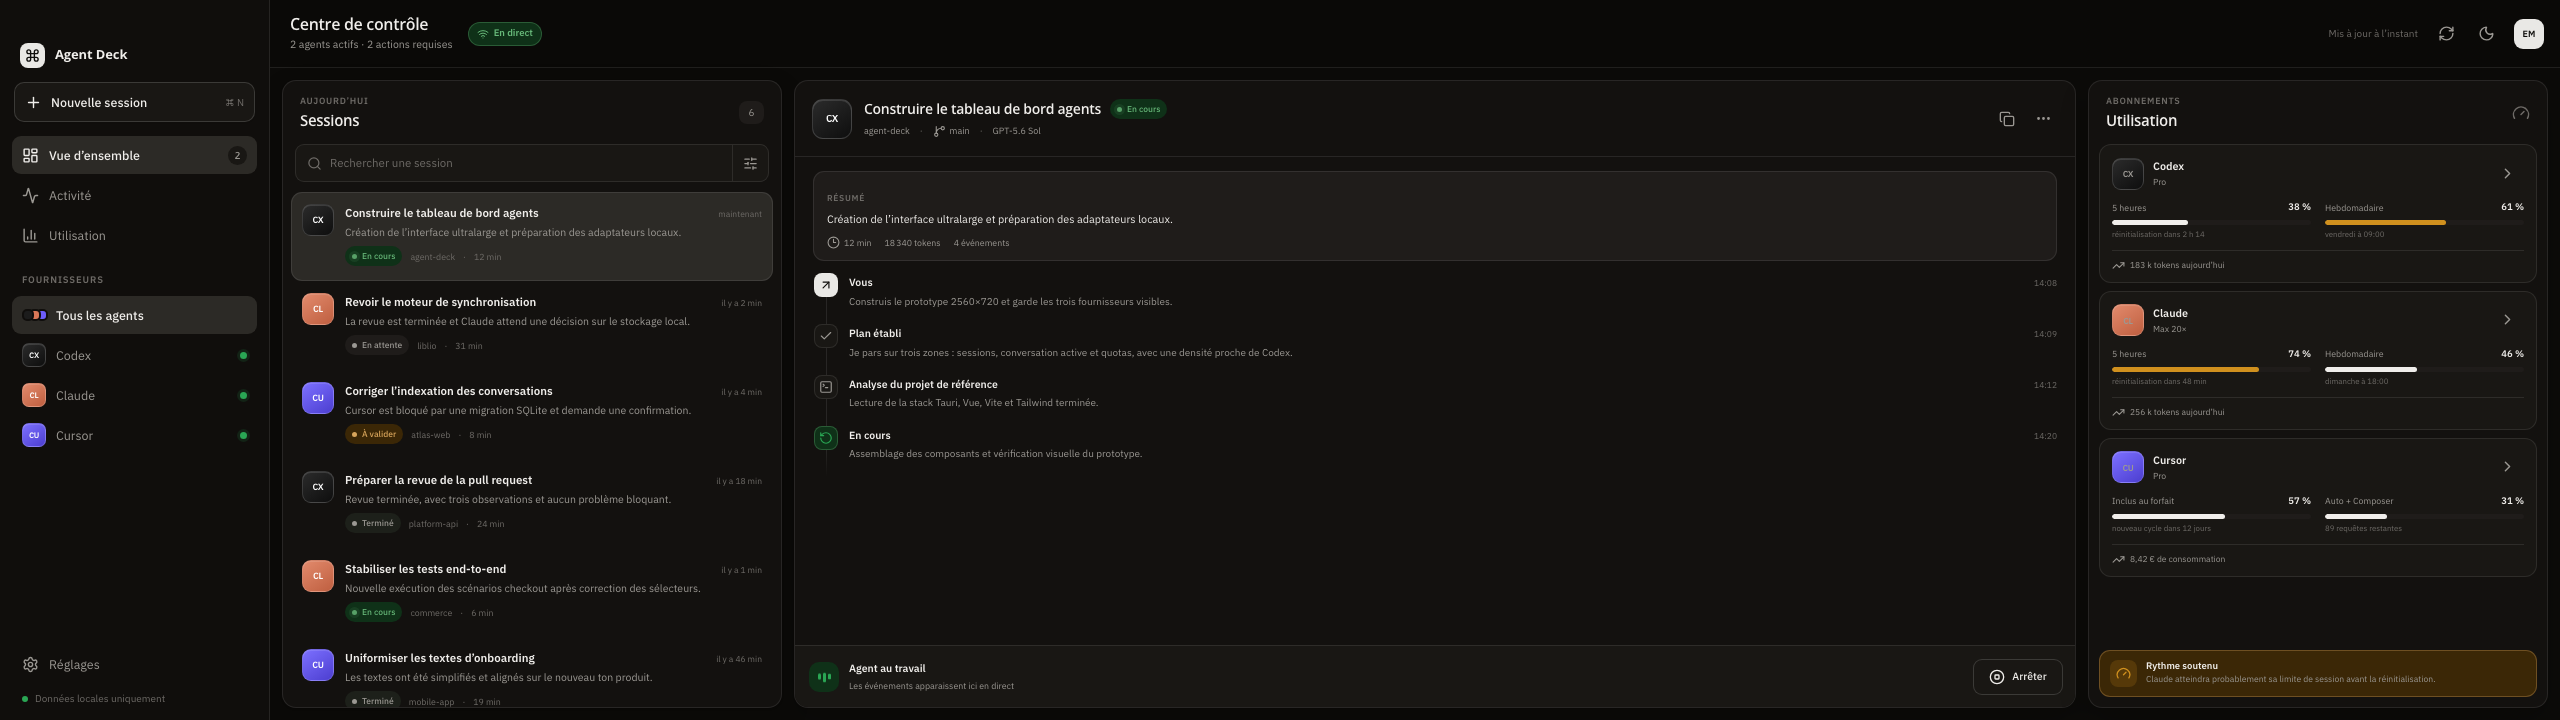
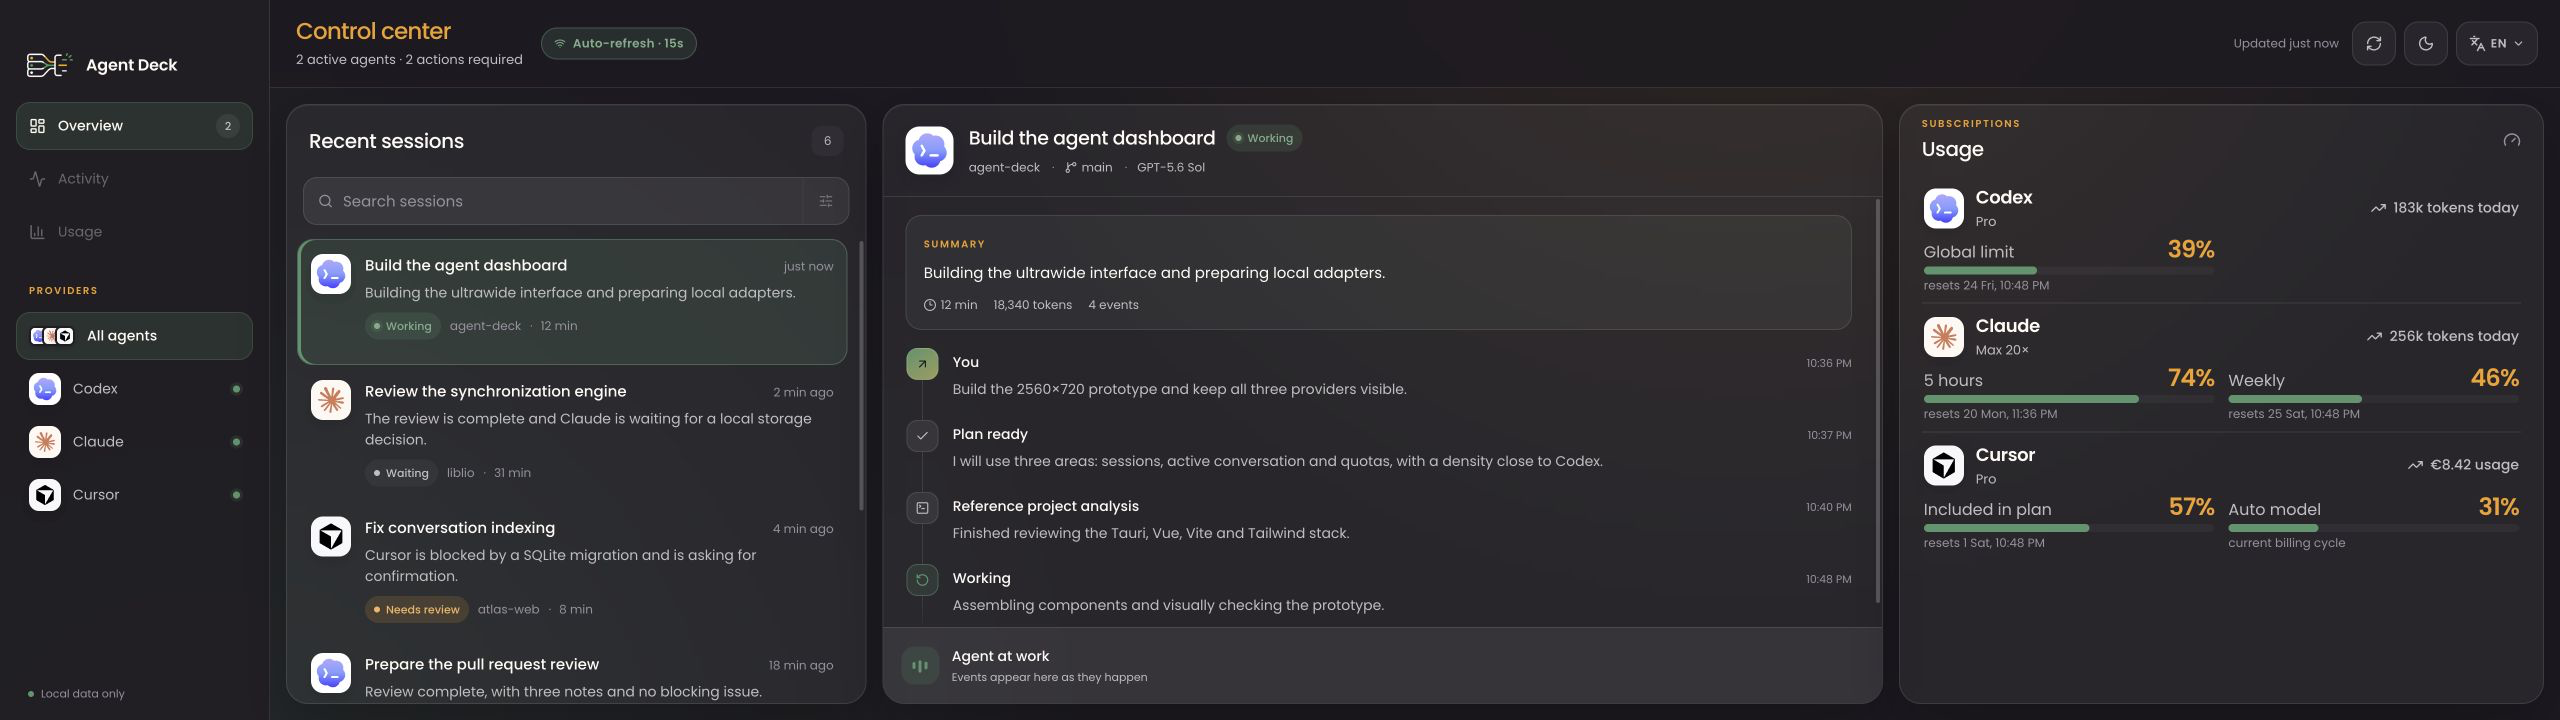
Readme translated to English

diff --git a/README.md b/README.md
@@ -1,53 +1,53 @@
 # Agent Deck
 
-Tableau de bord macOS en lecture seule pour suivre les sessions et l’utilisation de Codex, Claude et Cursor depuis une seule fenêtre.
+Agent Deck is a read-only macOS dashboard for monitoring Codex, Claude, and Cursor sessions and usage from one window.
 
-![Agent Deck en 2560 × 720](./agent-deck-2560x720.png)
+![Agent Deck running at 2560 × 720](./agent-deck-2560x720.png)
 
-## Fonctionnalités
+## Features
 
-- agrégation des conversations récentes de Codex, Claude et Cursor ;
-- suivi des quotas, fenêtres de réinitialisation et mesures d’utilisation disponibles ;
-- actualisation automatique des données locales ;
-- interface tactile optimisée pour un écran ultralarge 2560 × 720 ;
-- mise en page responsive avec détail de session dans un panneau latéral sur les formats compacts ;
-- interface disponible en français et en anglais ;
-- application strictement en lecture seule : aucune création, reprise ou modification de session.
+- Aggregates recent Codex, Claude, and Cursor conversations.
+- Displays available quotas, reset windows, and usage metrics.
+- Refreshes local data automatically.
+- Provides a touch-friendly interface optimized for a 2560 × 720 ultrawide display.
+- Keeps the usage column visible on compact layouts and opens session details in a side panel.
+- Supports French and English.
+- Remains strictly read-only: it cannot create, resume, stop, or modify a session.
 
-## Langues
+## Languages
 
-Au premier lancement, Agent Deck utilise le français lorsque la langue système commence par `fr`, et l’anglais dans tous les autres cas. Le sélecteur `FR` / `EN` de la barre supérieure change immédiatement tous les textes d’interface, les dates et les nombres. Le choix manuel est mémorisé localement et prévaut aux lancements suivants.
+On first launch, Agent Deck uses French when the system language starts with `fr`. It uses English for every other system language. The `FR` / `EN` selector in the top bar updates the interface, dates, and numbers immediately. Agent Deck stores your manual selection locally and uses it on subsequent launches.
 
-Les titres et messages des conversations réelles restent dans leur langue d’origine. Seuls les libellés créés par Agent Deck sont traduits. Les données de démonstration, utilisées par `pnpm dev` dans un navigateur, disposent de catalogues français et anglais.
+Agent Deck never translates titles or messages from real conversations. It only translates labels generated by the application. The demo data shown by `pnpm dev` includes both French and English content.
 
-## Sources de données
+## Data sources
 
-Agent Deck ne dépend pas d’un serveur distant propre au projet. Les adaptateurs Rust lisent les données déjà présentes sur le Mac :
+Agent Deck does not require its own remote server. Its Rust adapters read data already stored on your Mac:
 
-- **Codex** : tâches de `~/.codex/state_5.sqlite`, rollouts JSONL et quotas exposés par le `codex app-server` fourni avec l’app ;
-- **Claude** : conversations de `~/.claude/projects`, métadonnées de Claude Desktop, historique local d’utilisation et endpoint OAuth Anthropic lorsque des identifiants compatibles sont disponibles ;
-- **Cursor** : conversations de `state.vscdb` et résumé d’utilisation Cursor à partir de la session locale.
+- **Codex:** threads from `~/.codex/state_5.sqlite`, JSONL rollouts, and quotas exposed by the `codex app-server` bundled with the app.
+- **Claude:** conversations from `~/.claude/projects`, Claude Desktop metadata, local usage history, and the Anthropic OAuth usage endpoint when compatible credentials are available.
+- **Cursor:** conversations from `state.vscdb` and the Cursor usage summary retrieved with the local session.
 
-Les bases sont ouvertes en lecture seule. Les jetons restent côté Rust et ne sont jamais envoyés à l’interface Vue.
+Agent Deck opens databases in read-only mode. Tokens remain in the Rust backend and are never exposed to the Vue interface.
 
-> Les formats locaux de ces applications ne constituent pas des API publiques stables. Une mise à jour de Codex, Claude ou Cursor peut nécessiter une adaptation des parseurs.
+> Local application formats are not stable public APIs. Updates to Codex, Claude, or Cursor may require changes to the adapters.
 
-## Stack
+## Tech stack
 
-- Tauri 2 et Rust
-- Vue 3, TypeScript et Vue I18n 11
-- Vite 8 et Tailwind CSS 4
-- VueUse, Lucide et Vitest
+- Tauri 2 and Rust
+- Vue 3, TypeScript, and Vue I18n 11
+- Vite 8 and Tailwind CSS 4
+- VueUse, Lucide, and Vitest
 
-## Prérequis
+## Prerequisites
 
-- macOS ;
-- Node.js 22 ou plus récent ;
-- pnpm 10 ;
-- toolchain Rust stable ;
-- les apps Codex, Claude et/ou Cursor installées et déjà utilisées.
+- macOS
+- Node.js 22 or later
+- pnpm 10
+- A stable Rust toolchain
+- Codex, Claude, and/or Cursor installed and used at least once
 
-## Installation
+## Run the desktop app
 
 ```bash
 git clone https://github.com/eMeRiKa13/agent-deck.git
@@ -56,15 +56,15 @@ pnpm install
 pnpm dev:desktop
 ```
 
-La configuration Tauri lance Vite sur `http://127.0.0.1:1421` puis ouvre la fenêtre native macOS.
+Tauri starts Vite at `http://127.0.0.1:1421` and opens the native macOS window.
 
-Pour travailler uniquement sur l’interface avec les données de démonstration :
+To work on the interface in a browser with demo data, run:
 
 ```bash
 pnpm dev
 ```
 
-## Vérification
+## Verify the project
 
 ```bash
 pnpm typecheck
@@ -73,28 +73,28 @@ pnpm build
 pnpm build:desktop
 ```
 
-Les tests unitaires Rust peuvent aussi être lancés directement :
+Run the Rust unit tests directly with:
 
 ```bash
 PATH="$HOME/.cargo/bin:$PATH" cargo test --manifest-path src-tauri/Cargo.toml
 ```
 
-Les smoke tests qui dépendent des données installées localement sont ignorés par défaut :
+Smoke tests that depend on locally installed application data are ignored by default. Run them with:
 
 ```bash
 PATH="$HOME/.cargo/bin:$PATH" cargo test --manifest-path src-tauri/Cargo.toml -- --ignored
 ```
 
-## Structure
+## Project structure
 
 ```text
-src/                    Interface Vue et données de démonstration
-src/components/         Composants du tableau de bord
-src/composables/        Polling et état applicatif
-src-tauri/src/providers Adaptateurs Codex, Claude et Cursor
-src-tauri/              Configuration et backend Tauri
+src/                    Vue interface and demo data
+src/components/         Dashboard components
+src/composables/        Polling and application state
+src-tauri/src/providers Codex, Claude, and Cursor adapters
+src-tauri/              Tauri configuration and Rust backend
 ```
 
-## Confidentialité
+## Privacy
 
-Agent Deck fonctionne localement. Il n’envoie aucune conversation à un service tiers et n’expose pas les identifiants récupérés par les adaptateurs Rust au frontend.
+Agent Deck runs locally. It does not send conversations to a third-party service or expose credentials collected by the Rust adapters to the frontend.
